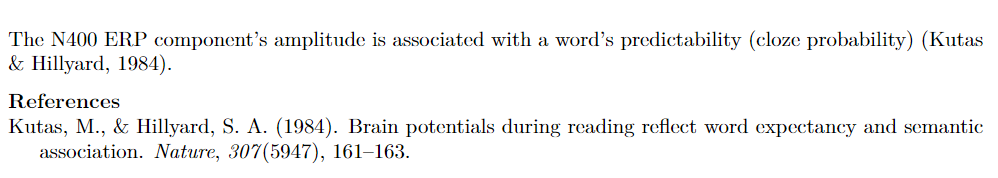
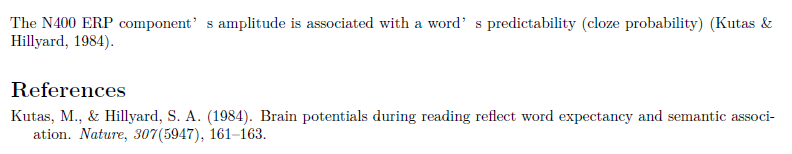
updated rmd tutorial

Changed region(s): [[0.0, 0.5195, 1.0, 0.9351], [0.0, 0.1039, 1.0, 0.4156]]

diff --git a/_posts/2023-02-16-rmarkdown-latex.md b/_posts/2023-02-16-rmarkdown-latex.md
@@ -298,19 +298,18 @@ bibliography: ["references1.bib", "references2.bib"]
 
 Note that the first argument is your citation `key`, such as `kutas1984brain` and `chomsky2014minimalist`. To cite an item in-text, simply write `@key`. To enclose citation in parentheses, write `[@key]`. To cite multiple items in one parentheses, write `[@key1; @key2; @key3]`. More detailed explanation can be found [here](https://bookdown.org/yihui/rmarkdown-cookbook/bibliography.html). 
 
-Citation style is managed by `.csl` files. Download the desired `.csl` file [here](https://www.zotero.org/styles?q=APA) and put it in the same folder. 
+Citation style is managed by `.csl` files. Download the desired `.csl` file [here](https://www.zotero.org/styles?q=APA) and put it in the same folder. Use `reference-section-title:` in the front matter to give your reference section a title.
 
 ```
 ---
 bibliography: references.bib
 csl: apa-6th-edition.csl
+reference-section-title: "References"
 ---
 ```
 
 ```
 The N400 ERP component's amplitude is associated with a word's predictability (cloze probability) [@kutas1984brain]. 
-
-**References**
 ```
 
 ![citation](/images/tutorial_rmdtex/citation.png)
